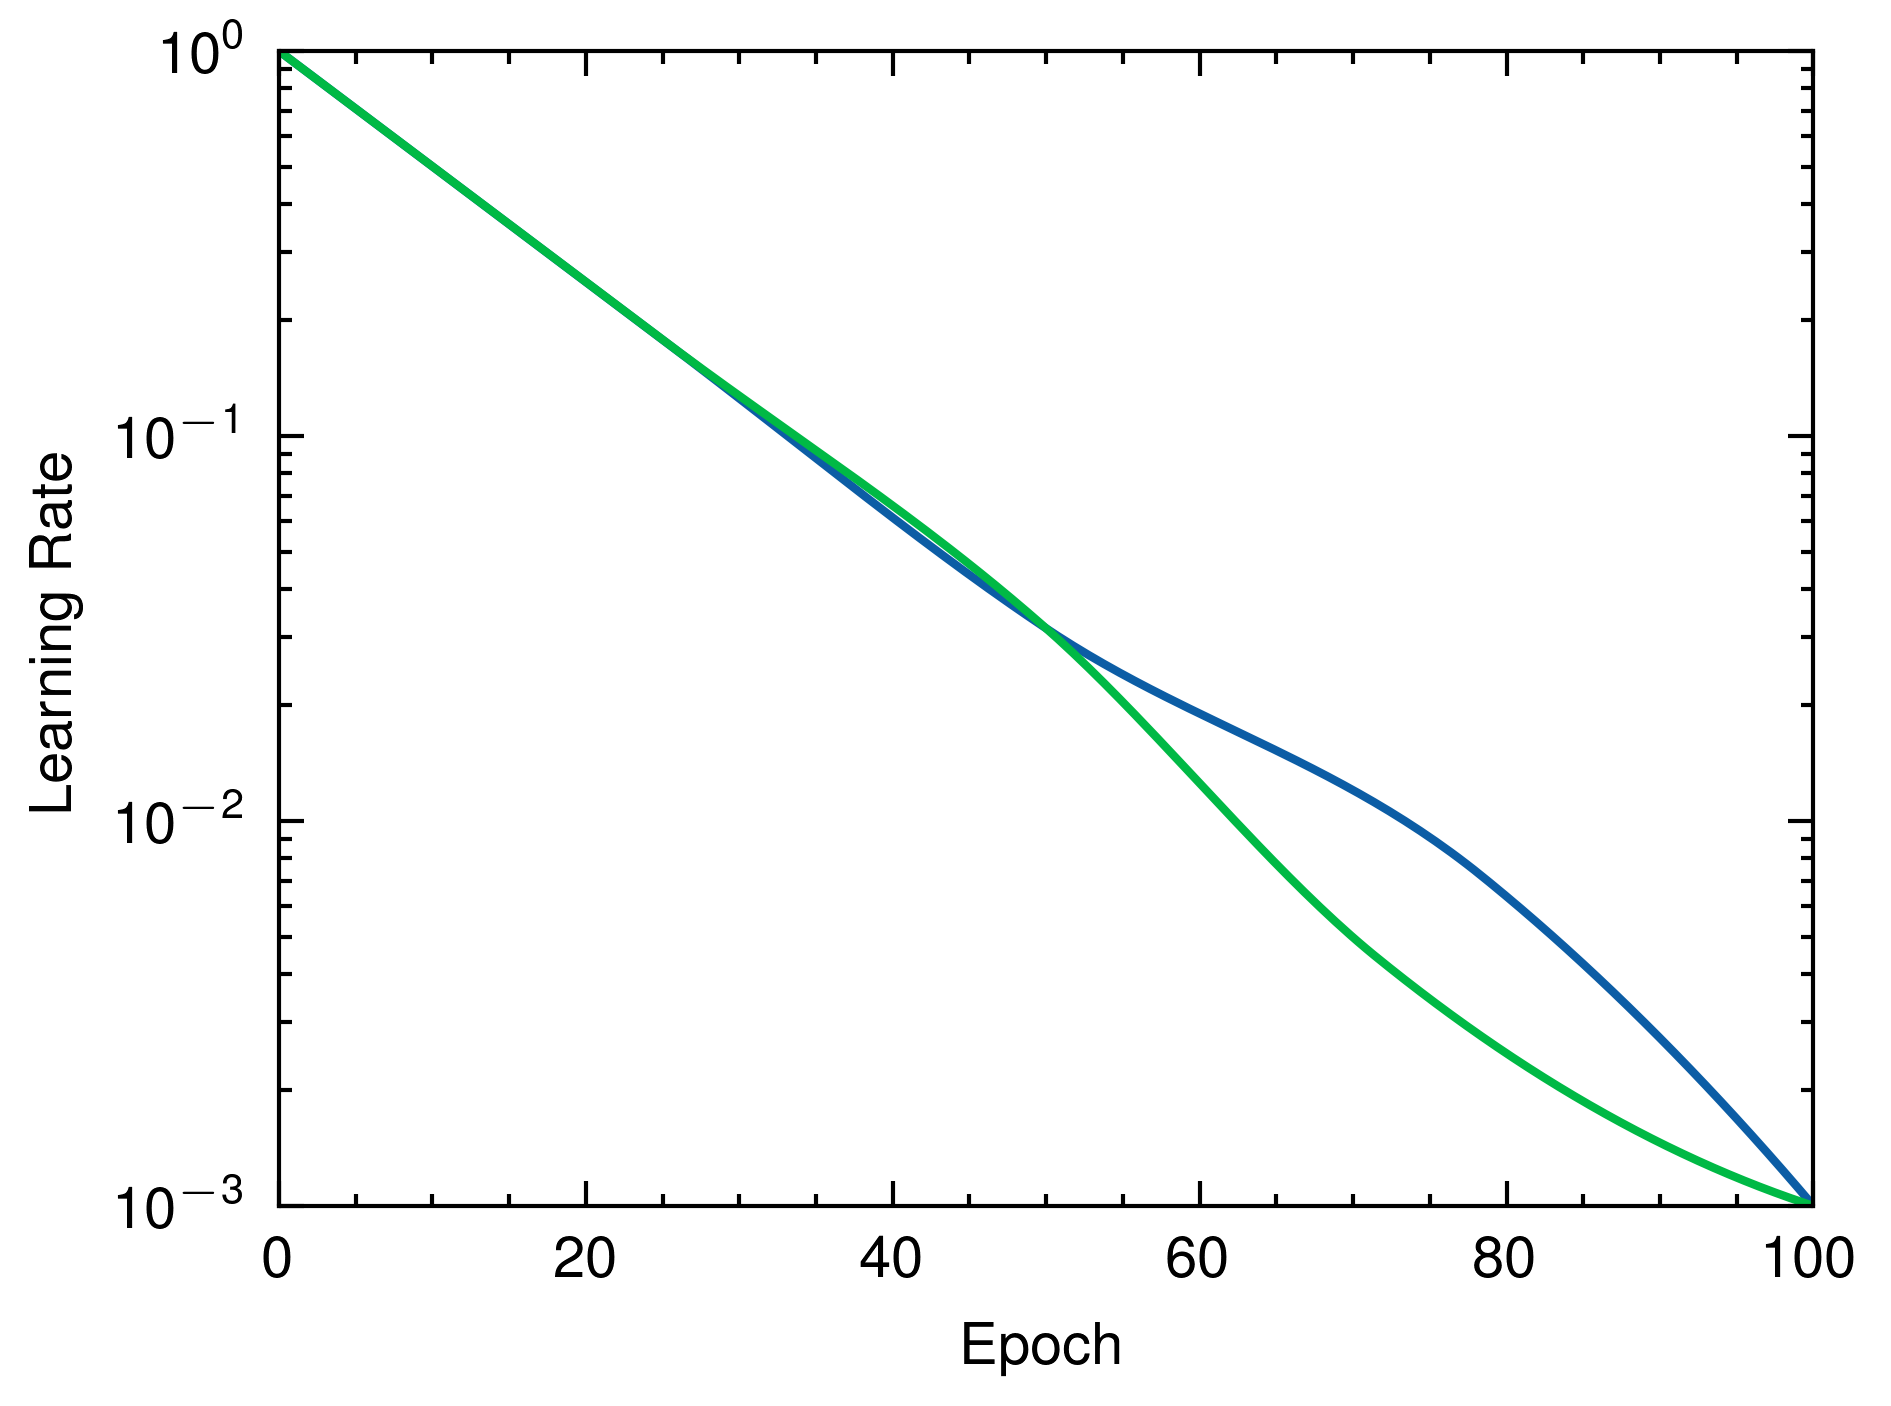
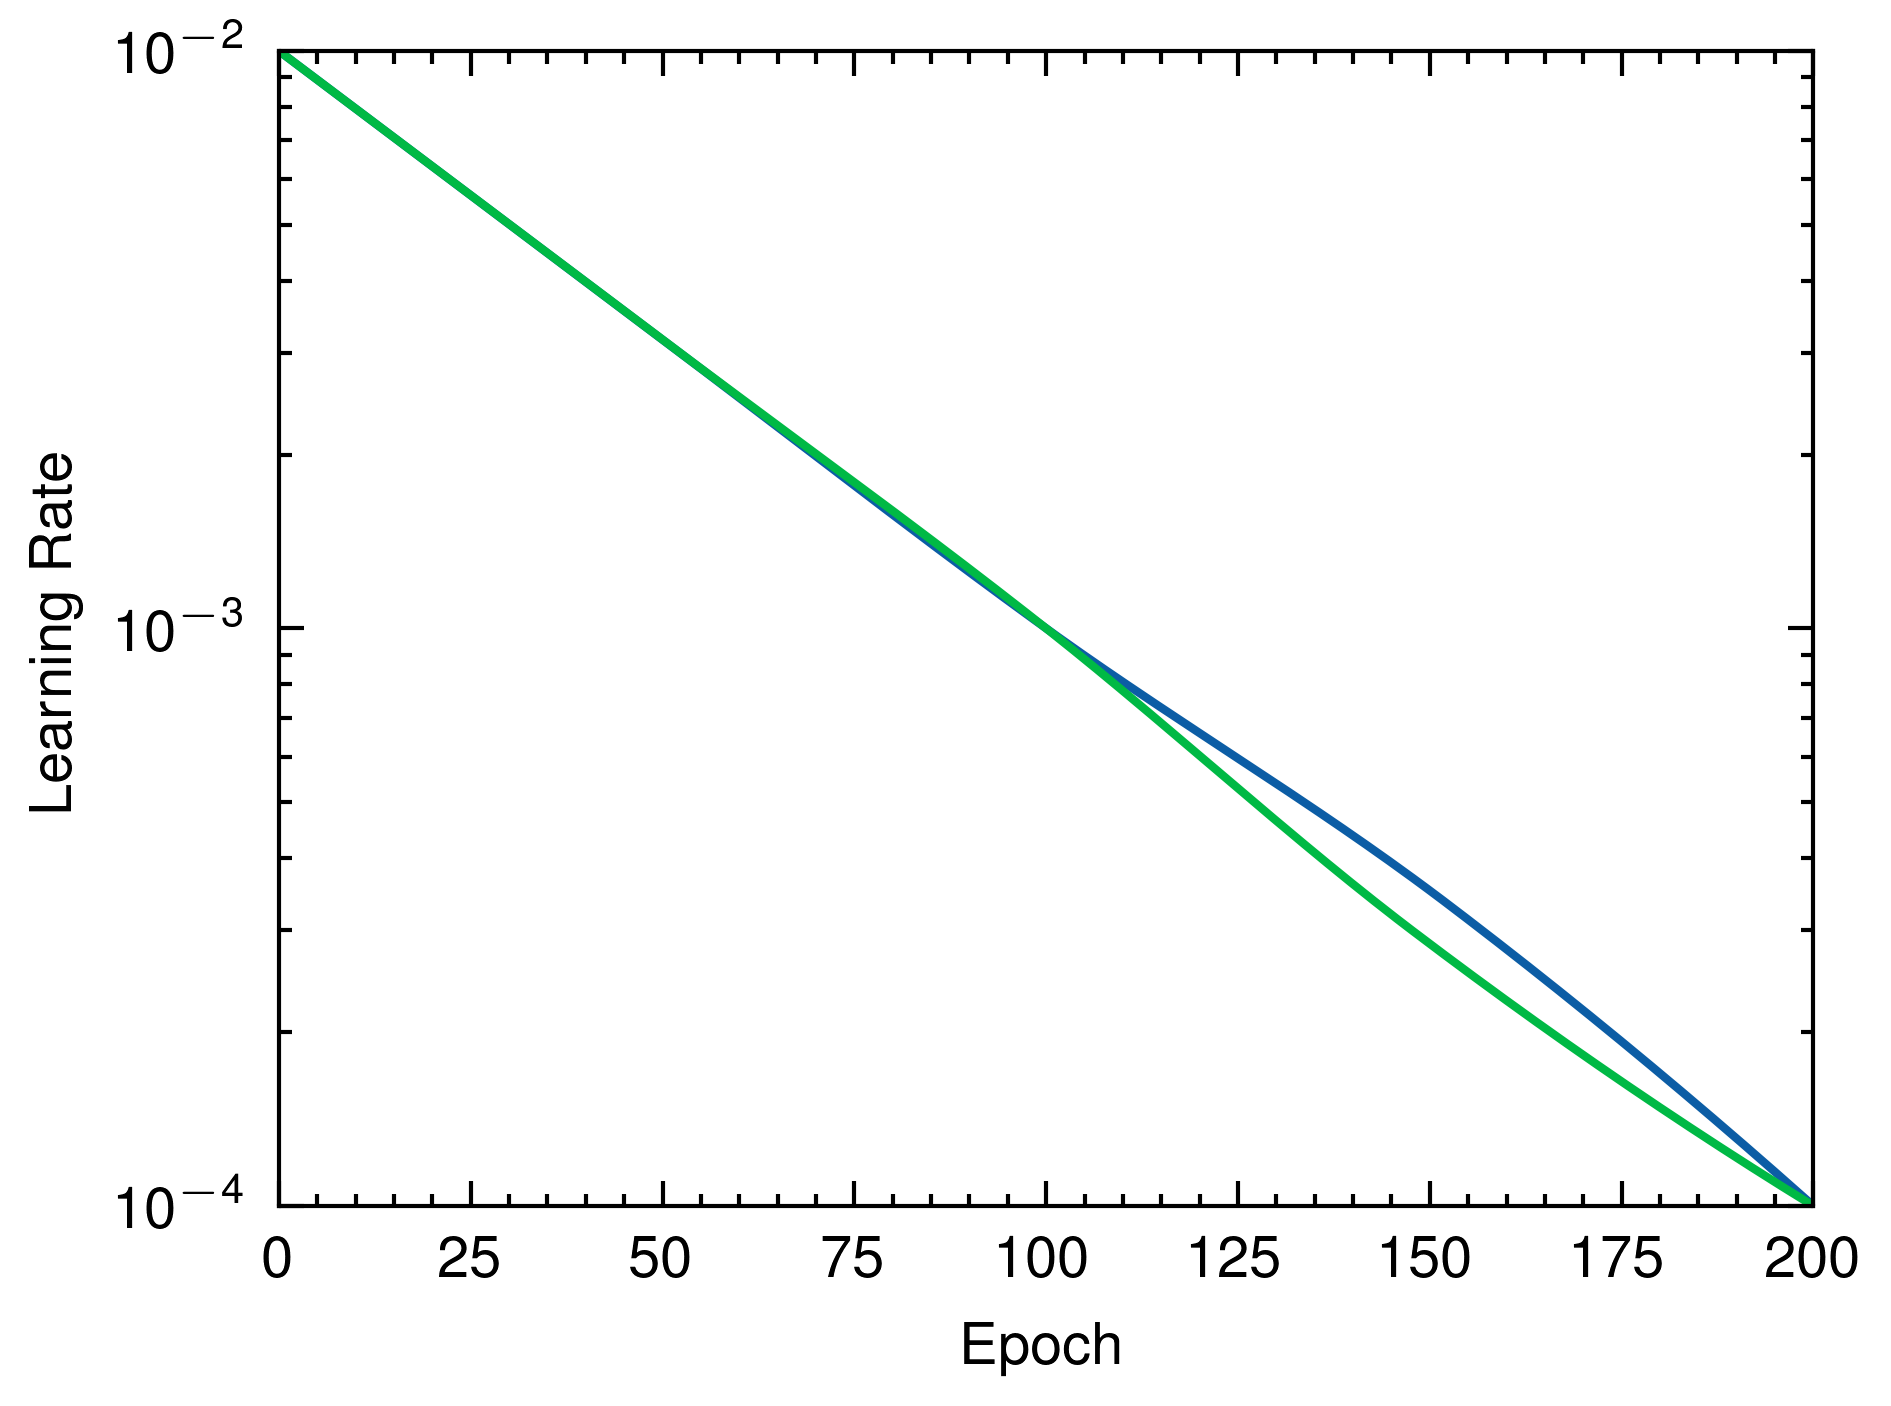
Update images

diff --git a/src/main.rs b/src/main.rs
@@ -5,9 +5,9 @@ use peroxide::fuga::*;
 type PTS = (Vec<f64>, Vec<f64>);
 
 fn main() -> Result<(), Box<dyn std::error::Error>> {
-    let max_epoch = 100.0;
-    let init_lr   = 1f64;
-    let min_lr    = 1e-3;
+    let max_epoch = 200.0;
+    let init_lr   = 1e-2;
+    let min_lr    = 1e-4;
 
     let splr = SplineLR { init_lr: init_lr.ln(), min_lr: min_lr.ln(), N: max_epoch };
     let domain = linspace(0, max_epoch, 200);
